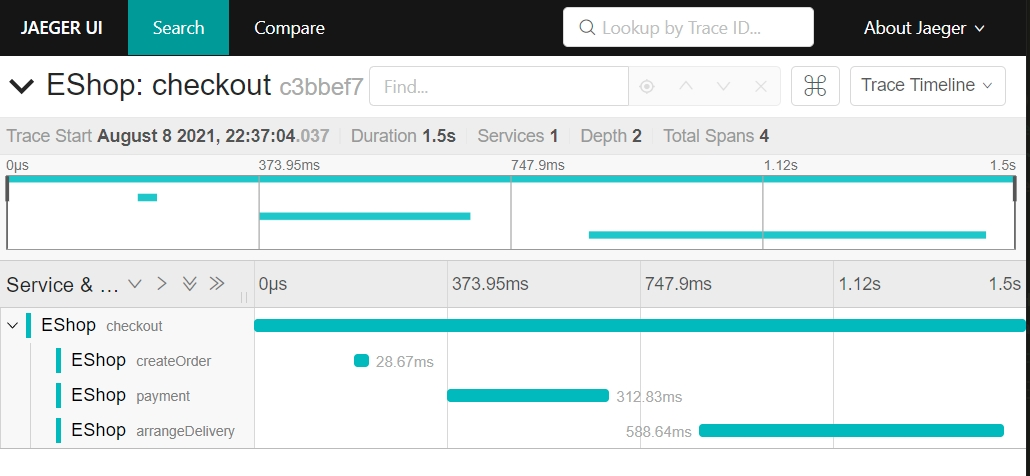
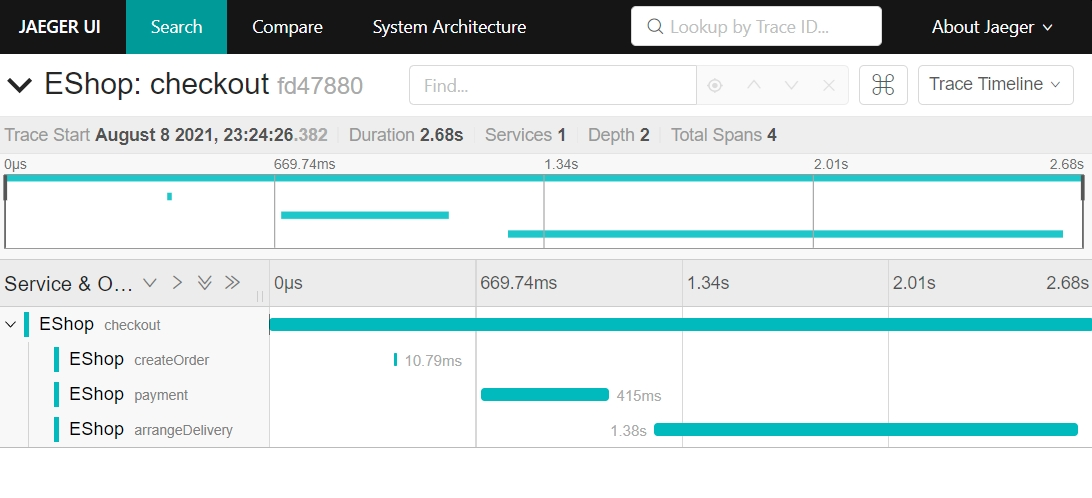
prj 3.3 submission - with Baggage

Changed region(s): [[0.0, 0.0, 1.0, 1.0], [0.6214, 0.1765, 0.6524, 0.2059], [0.435, 0.8824, 0.466, 0.9118]]

diff --git a/src/main/java/com/acheekoth/tracing/EShopController.java b/src/main/java/com/acheekoth/tracing/EShopController.java
@@ -4,6 +4,7 @@ import io.opentracing.Span;
 import io.opentracing.Tracer;
 import io.opentracing.propagation.Format;
 import io.opentracing.tag.Tags;
+
 import org.springframework.beans.factory.annotation.Autowired;
 import org.springframework.http.HttpEntity;
 import org.springframework.http.HttpHeaders;
@@ -25,13 +26,15 @@ public class EShopController {
     @RequestMapping(value = "/checkout")
     public String checkout(@RequestHeader HttpHeaders headers) {
         Span span = tracer.buildSpan("checkout").start();
+        span.setBaggageItem("user", headers.getFirst("user"));
         String result = "";
         try {
             HttpHeaders outboundHeaders = new HttpHeaders();
             tracer.inject(span.context(), Format.Builtin.HTTP_HEADERS, new HtttpHeaderCarrier(outboundHeaders));
+            HttpEntity<String> entity = new HttpEntity<>("", outboundHeaders);
+            
             // Use HTTP GET in this demo. In a real world use case,We should use HTTP POST instead.
             // The three services are bundled in one jar for simplicity. To make it work,define three services in Kubernets.
-            HttpEntity<String> entity = new HttpEntity<>("", outboundHeaders);
             result += restTemplate.exchange("http://inventory:8080/createOrder", HttpMethod.GET, entity, String.class).getBody();
             result += "<BR>";
             result += restTemplate.exchange("http://billing:8080/payment", HttpMethod.GET, entity, String.class).getBody();

diff --git a/src/main/java/com/acheekoth/tracing/service/LogisticsService.java b/src/main/java/com/acheekoth/tracing/service/LogisticsService.java
@@ -26,7 +26,6 @@ public class LogisticsService {
     public String transport(@RequestHeader HttpHeaders headers) {
         SpanContext parent = tracer.extract(Format.Builtin.HTTP_HEADERS, new HtttpHeaderCarrier(headers));
         Span span = tracer.buildSpan("transport").asChildOf(parent).start();
-        
         // Add a random delay to the service
         try {
             Thread.sleep((long) (Math.random() * 1000));
@@ -35,7 +34,7 @@ public class LogisticsService {
         } finally {
             span.finish();
         }
-
-        return "Your order is on the way!";
+        String user = span.getBaggageItem("user");
+        return user + "'s order is on the way!";
     }
 }

diff --git a/src/main/java/com/acheekoth/tracing/service/DeliveryService.java b/src/main/java/com/acheekoth/tracing/service/DeliveryService.java
@@ -44,6 +44,7 @@ public class DeliveryService {
         } finally {
             span.finish();
         }
-        return result + "<BR>Your order is delivered!";
+        String user = span.getBaggageItem("user");
+        return result + "<BR>" + user + "'s order is delivered!";
     }
 }

diff --git a/src/main/java/com/acheekoth/tracing/service/InventoryService.java b/src/main/java/com/acheekoth/tracing/service/InventoryService.java
@@ -37,6 +37,7 @@ public class InventoryService {
         } finally {
             span.finish();
         }
-        return "Your order has been created!";
+        String user = span.getBaggageItem("user");
+        return user + "'s order has been created!";
     }
 }

diff --git a/src/main/java/com/acheekoth/tracing/service/BillingService.java b/src/main/java/com/acheekoth/tracing/service/BillingService.java
@@ -36,7 +36,8 @@ public class BillingService {
         } finally {
             span.finish();
         }
-        return "Your order has been paid!";
+        String user = span.getBaggageItem("user");
+        return user + "'s order has been paid!";
     }
 }
 

diff --git a/README.md b/README.md
@@ -21,23 +21,9 @@ kubectl apply -f k8s/deploy.yaml
 ### Check pod & deployment status
 ```
 kubectl get pods
-NAME                         READY   STATUS    RESTARTS   AGE
-billing-7f8b7fdf7-blcjm      1/1     Running   0          22s
-delivery-55d446d6b7-lvg9c    1/1     Running   0          22s
-eshop-7b7ccb6d6f-5grmx       1/1     Running   0          23s
-inventory-6f67bcc995-9lm9t   1/1     Running   0          22s
-jaeger-787766c5b9-9n7pj      1/1     Running   0          21s
-logistics-5b9bd77645-dwt6g   1/1     Running   0          21s
 
-λ kubectl get svc
-NAME         TYPE        CLUSTER-IP     EXTERNAL-IP   PORT(S)               AGE
-billing      ClusterIP   10.0.69.220    <none>        8080/TCP              52s
-delivery     ClusterIP   10.0.144.17    <none>        8080/TCP              51s
-eshop        ClusterIP   10.0.101.136   <none>        8080/TCP              52s
-inventory    ClusterIP   10.0.37.204    <none>        8080/TCP              52s
-jaeger       ClusterIP   10.0.223.188   <none>        14268/TCP,16686/TCP   50s
-kubernetes   ClusterIP   10.0.0.1       <none>        443/TCP               4d23h
-logistics    ClusterIP   10.0.84.100    <none>        8080/TCP              51s
+kubectl get svc
+
 ```
 
 ### Port forward API & JAEGERUI ports to localhost
@@ -52,8 +38,9 @@ Forwarding from [::1]:16686 -> 16686
 
 ```
 
-### Test the checkout 
-```	curl http://127.0.0.1:8080/checkout ```
+### Test the checkout with user baggage parameter
+```	**curl 127.0.0.1:8080/checkout --header "user: amitabh"
+amitabh's order has been created!<BR>amitabh's order has been paid!<BR>Your order is on the way!<BR>amitabh's order is delivered! ```
 
 ### View Jaeger UI
 cess Jaeger UI at http://localhost:16686/
